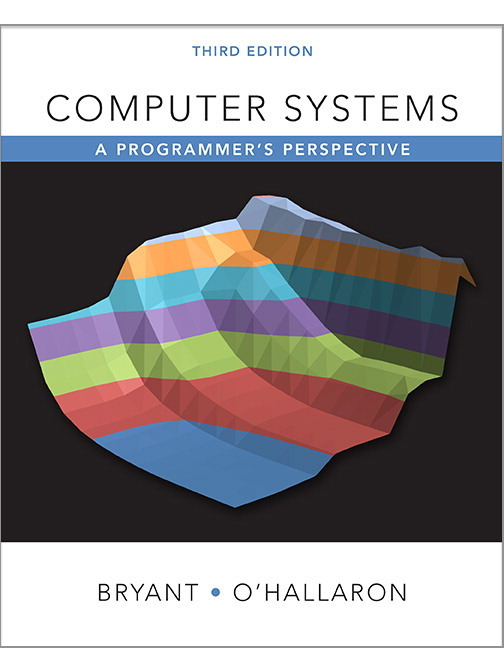
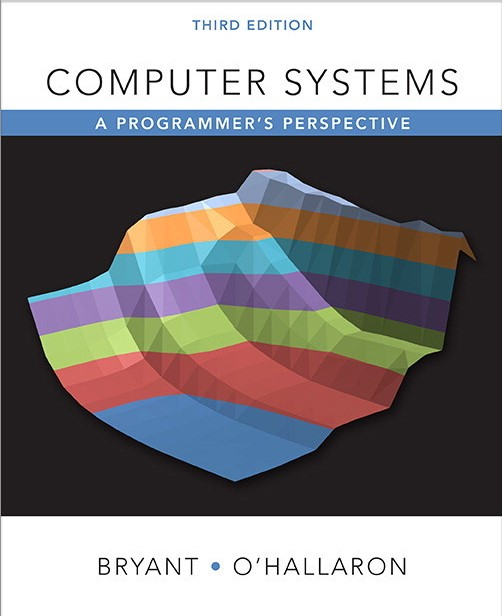
images change, update thumbnail to fit height

diff --git a/_layouts/post-cs.html b/_layouts/post-cs.html
@@ -46,7 +46,8 @@ layout: compress
                     {% capture images %}
                         {{"/assets/img/" | prepend: site.baseurl | append : post.img}}
                     {% endcapture %}
-                    <img href="{{images}}" class="post-thumbnail" src="{{images}}">
+                    <!-- <img href="{{images}}" class="post-thumbnail" src="{{images}}"> -->
+                    <a class="post-thumbnail" href="{{images}}" style="background-image: url({{images}})" ></a>
                     {% endif %}
                     <div class="post-content">
                         <h2 class="post-title-cs"><a href="{{ post.github }}" target="_blank">{{post.title}}</a></h2>
